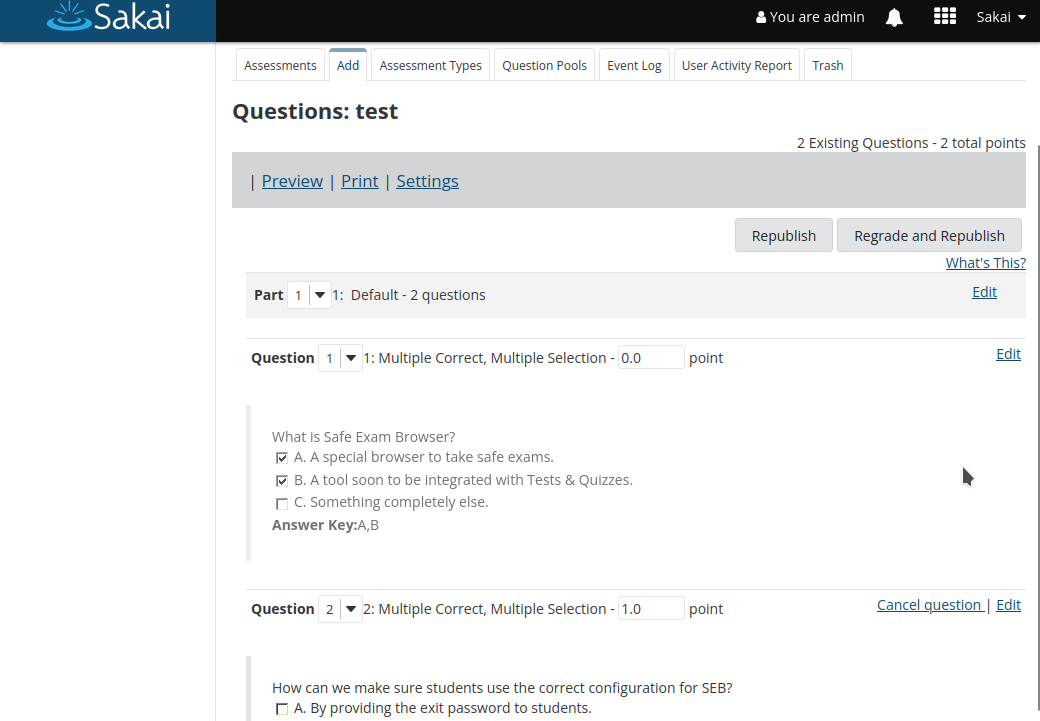
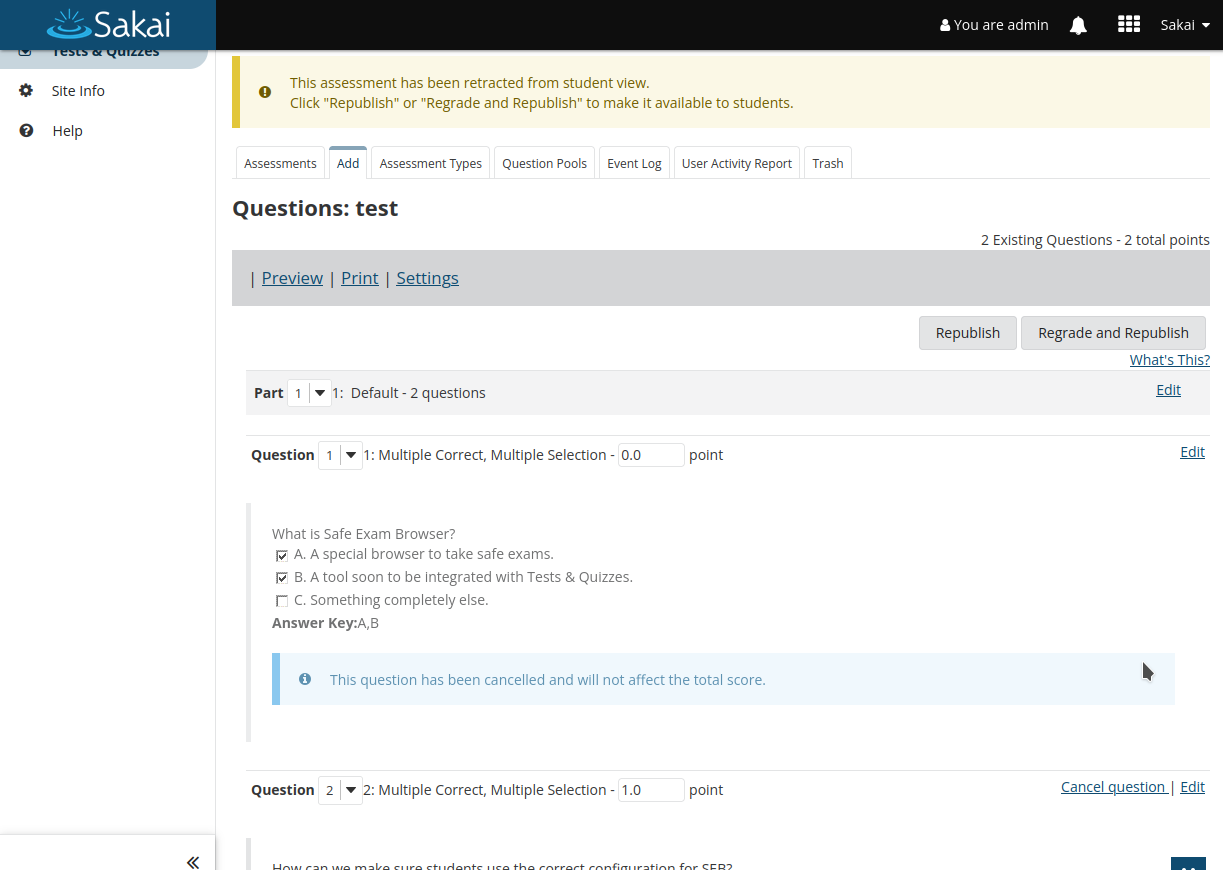
S2U-14 Update canceled questions prototype

diff --git a/5-1-1-10-cancelled_questions_and_score_re-calculation/code/cancel-at-published-edit.js b/5-1-1-10-cancelled_questions_and_score_re-calculation/code/cancel-at-published-edit.js
@@ -83,15 +83,13 @@ function cancelQuestion() {
     pointInput.value = "0.0";
     const question = document.querySelector(".samigo-question-callout");
     question.style.opacity = 0.7;
-/*
-    const bannerText = "This question has been cancelled."
-                + "not affect the total score.";
+    const bannerText = "This question has been cancelled and will "
+            + "not affect the total score.";
     question.insertAdjacentHTML("beforeend",`
         <div class="sak-banner-info cancelled-question-info">
             ${bannerText}
         </div>
     `);
-*/
     cancelActions[0].nextElementSibling.remove();
     cancelActions[0].remove();
 }

diff --git a/README.md b/README.md
@@ -4,6 +4,6 @@
 > This is not a complete set of the prototypes, please refer to
 > the analysis document to find the prototype you are looking for
 
-* [5.1.1.17 Safe Exam Browser Sakai integration](5-1-1-17-safe-exam-browser/safe-exam-browser-prototype.md)
-
 * [5.1.1.10 Cancelled questions and score re-calculation](5-1-1-10-cancelled_questions_and_score_re-calculation/cancelled-questions.md)
+
+* [5.1.1.17 Safe Exam Browser Sakai integration](5-1-1-17-safe-exam-browser/safe-exam-browser-prototype.md)
